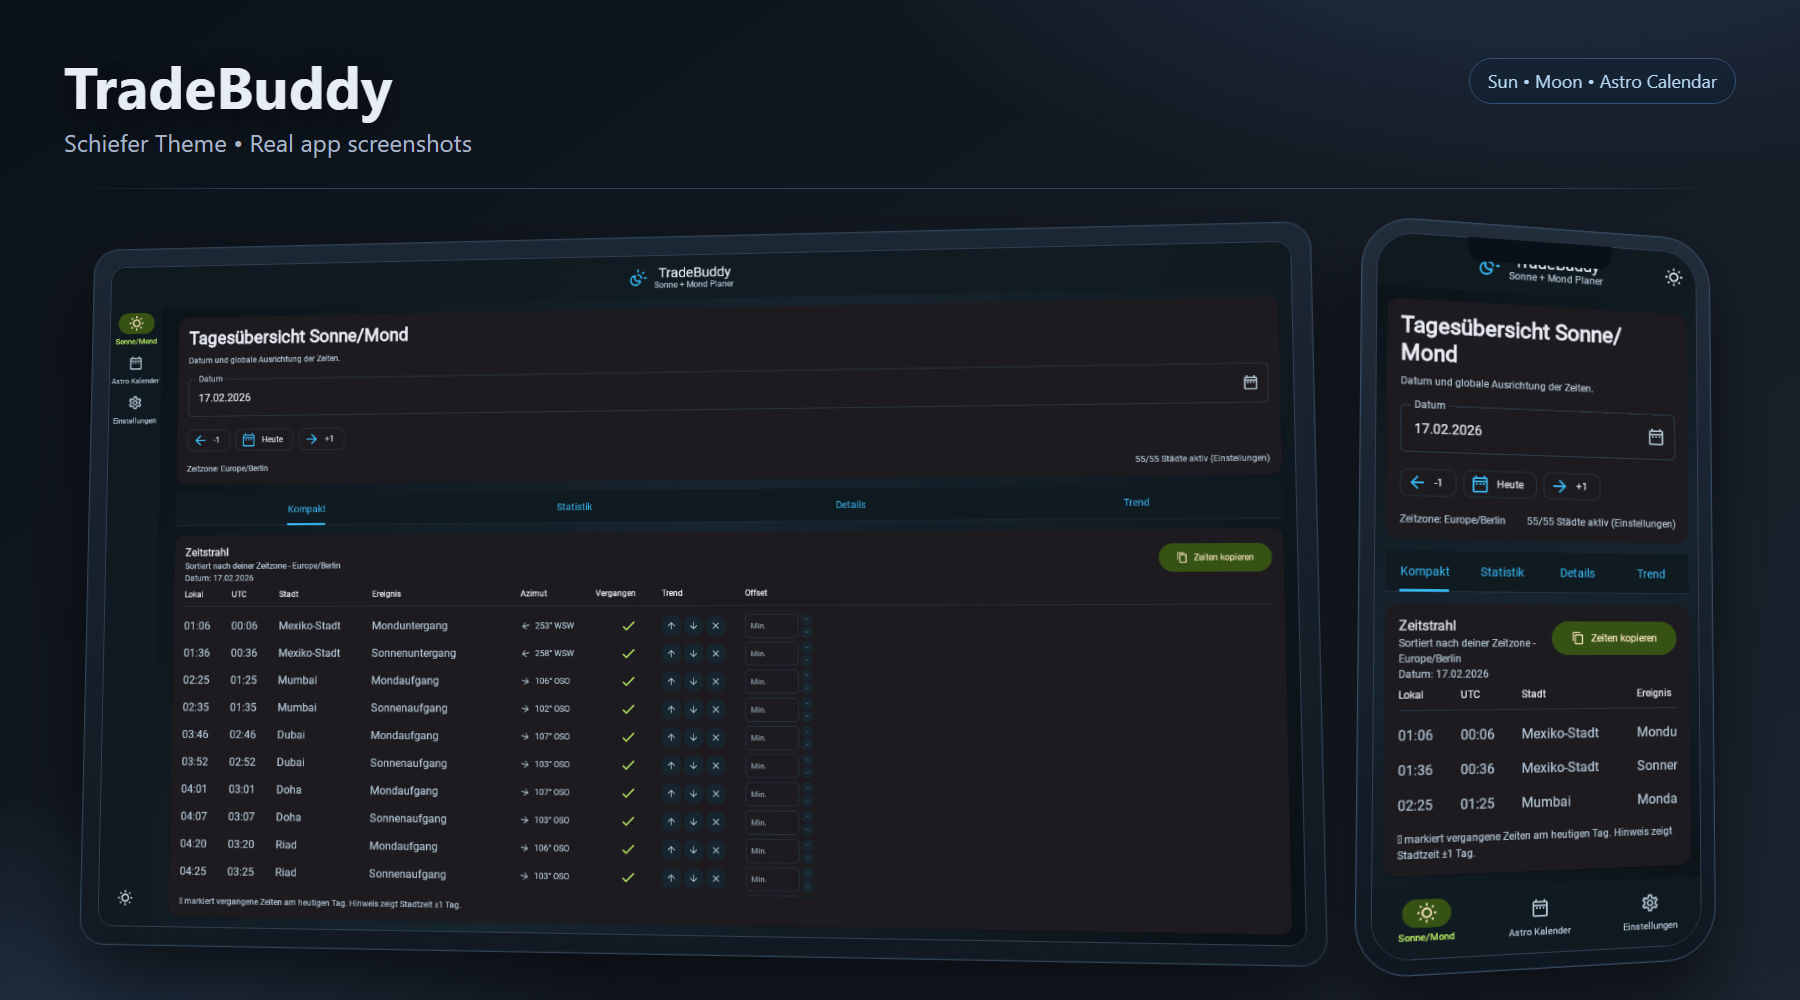
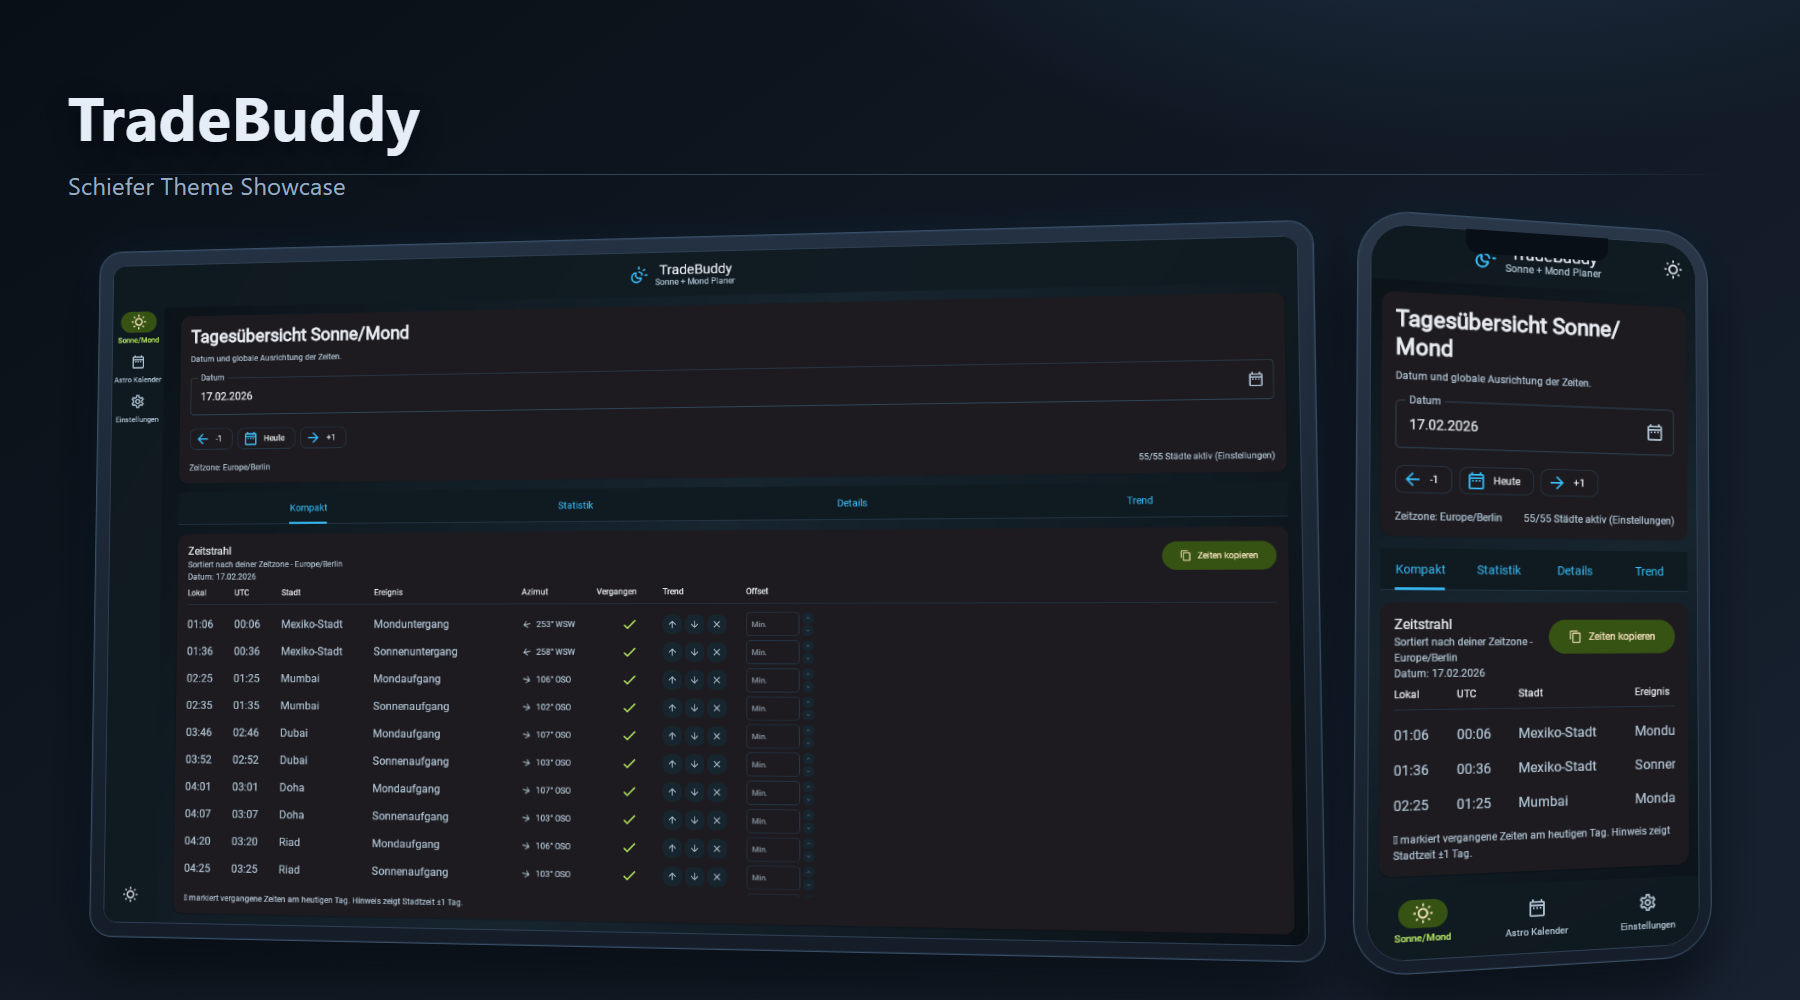
Automate README screenshot refresh and improve slate mockup styling

diff --git a/images/mockup-template.html b/images/mockup-template.html
@@ -1,0 +1,141 @@
+<!doctype html>
+<html lang="en">
+<head>
+  <meta charset="utf-8" />
+  <meta name="viewport" content="width=device-width, initial-scale=1" />
+  <title>TradeBuddy Showcase</title>
+  <style>
+    :root {
+      --slate-950: #090f16;
+      --slate-900: #111a25;
+      --slate-850: #172130;
+      --slate-800: #1e2938;
+      --line: #2f3f53;
+      --glow: #1f5e8d;
+    }
+    * { box-sizing: border-box; }
+    html, body {
+      margin: 0;
+      width: 100%;
+      height: 100%;
+      overflow: hidden;
+      font-family: "Segoe UI", Inter, system-ui, sans-serif;
+      background: radial-gradient(1200px 600px at 80% -20%, #203349 0%, transparent 60%),
+        radial-gradient(700px 400px at -10% 120%, #1c2a3a 0%, transparent 65%),
+        linear-gradient(145deg, var(--slate-950), var(--slate-900) 54%, var(--slate-850));
+    }
+    .canvas {
+      width: 1800px;
+      height: 1000px;
+      padding: 74px 68px;
+      position: relative;
+    }
+    .top-rule {
+      position: absolute;
+      left: 68px;
+      right: 68px;
+      top: 174px;
+      height: 1px;
+      background: linear-gradient(90deg, transparent, #314558 15%, #314558 85%, transparent);
+    }
+    .brand {
+      margin: 0;
+      color: #e5edf7;
+      font-weight: 760;
+      font-size: 62px;
+      letter-spacing: 0.3px;
+      text-shadow: 0 8px 26px rgba(0, 0, 0, 0.45);
+    }
+    .sub {
+      margin-top: 12px;
+      color: #99acc2;
+      font-size: 24px;
+      letter-spacing: 0.2px;
+    }
+    .grid {
+      position: absolute;
+      left: 68px;
+      right: 68px;
+      bottom: 56px;
+      top: 216px;
+      display: grid;
+      grid-template-columns: minmax(0, 1fr) 388px;
+      gap: 48px;
+      align-items: center;
+    }
+    .desktop {
+      padding: 14px;
+      border-radius: 24px;
+      background: linear-gradient(180deg, #233142, #141d28);
+      border: 1px solid #3b4e66;
+      box-shadow:
+        0 32px 60px rgba(0, 0, 0, 0.55),
+        0 0 0 1px rgba(84, 137, 185, 0.14) inset,
+        0 0 40px rgba(31, 94, 141, 0.16);
+      transform: perspective(1300px) rotateX(2deg) rotateY(-5deg);
+      transform-origin: center;
+    }
+    .desktop-screen {
+      border-radius: 14px;
+      overflow: hidden;
+      border: 1px solid var(--line);
+      background: #0a1118;
+    }
+    .desktop-screen img { width: 100%; display: block; }
+
+    .phone {
+      width: 360px;
+      margin: 0 auto;
+      border-radius: 52px;
+      padding: 12px;
+      background: linear-gradient(180deg, #2a3748, #151e2a);
+      border: 1px solid #3b4d64;
+      box-shadow:
+        0 30px 56px rgba(0, 0, 0, 0.55),
+        0 0 0 1px rgba(84, 137, 185, 0.12) inset,
+        0 0 36px rgba(31, 94, 141, 0.14);
+      transform: perspective(1000px) rotateX(2deg) rotateY(10deg);
+      position: relative;
+    }
+    .phone-notch {
+      position: absolute;
+      top: 12px;
+      left: 50%;
+      transform: translateX(-50%);
+      width: 146px;
+      height: 24px;
+      border-bottom-left-radius: 13px;
+      border-bottom-right-radius: 13px;
+      background: #090f16;
+      z-index: 2;
+    }
+    .phone-screen {
+      border-radius: 38px;
+      overflow: hidden;
+      border: 1px solid var(--line);
+      background: #0a1118;
+    }
+    .phone-screen img { width: 100%; display: block; }
+  </style>
+</head>
+<body>
+  <main class="canvas">
+    <h1 class="brand">TradeBuddy</h1>
+    <div class="sub">Schiefer Theme Showcase</div>
+    <div class="top-rule"></div>
+    <section class="grid">
+      <div class="desktop">
+        <div class="desktop-screen">
+          <img src="./screenshot-web-desktop.png" alt="Desktop screenshot" />
+        </div>
+      </div>
+      <div class="phone">
+        <div class="phone-notch"></div>
+        <div class="phone-screen">
+          <img src="./screenshot-web-mobile.png" alt="Mobile screenshot" />
+        </div>
+      </div>
+    </section>
+  </main>
+</body>
+</html>
